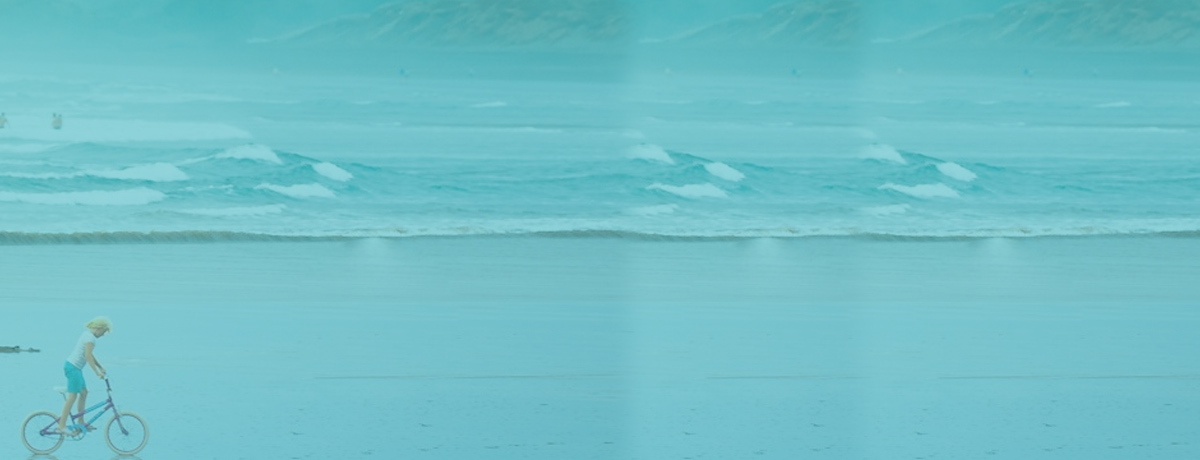
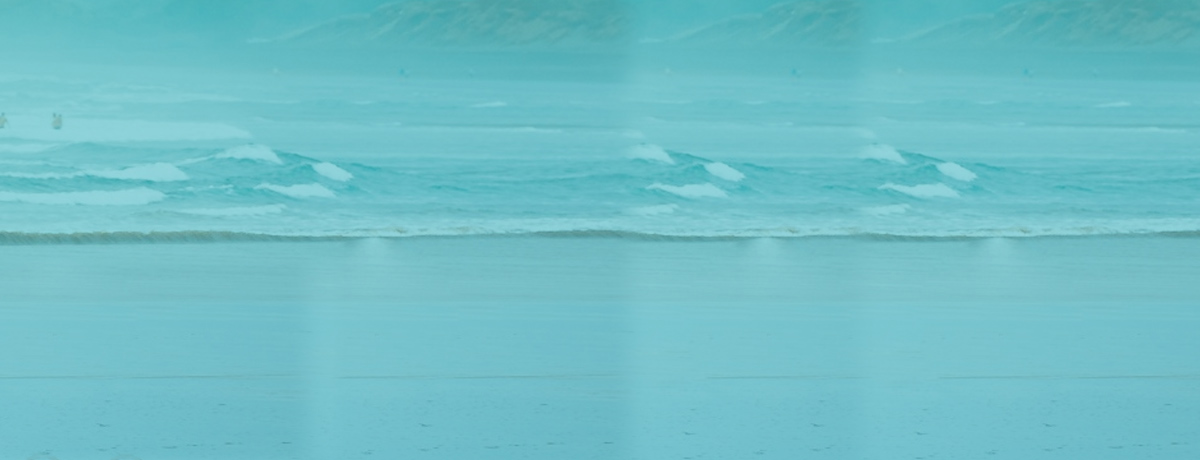
added

Changed region(s): [[0.0308, 0.6696, 0.1233, 1.0], [0.0, 0.7304, 0.0308, 0.7913], [0.0925, 0.9739, 0.1233, 1.0]]

diff --git a/application/views/home/index_view.php b/application/views/home/index_view.php
@@ -35,10 +35,10 @@ height:5px;
 background:white;	
 }
 .middle{
-	background:#71C1CA;
-/*background-image: url(<?php  echo base_url()   ?>images/Page1_bg.jpg);
+/*	background:#71C1CA;*/
+background-image: url(<?php  echo base_url()   ?>images/Page1_bg.jpg);
 background-position: center, center;
-background-repeat: no-repeat;*/
+background-repeat: no-repeat;
 min-height:450px;	
 }
 .middle .first-question{
